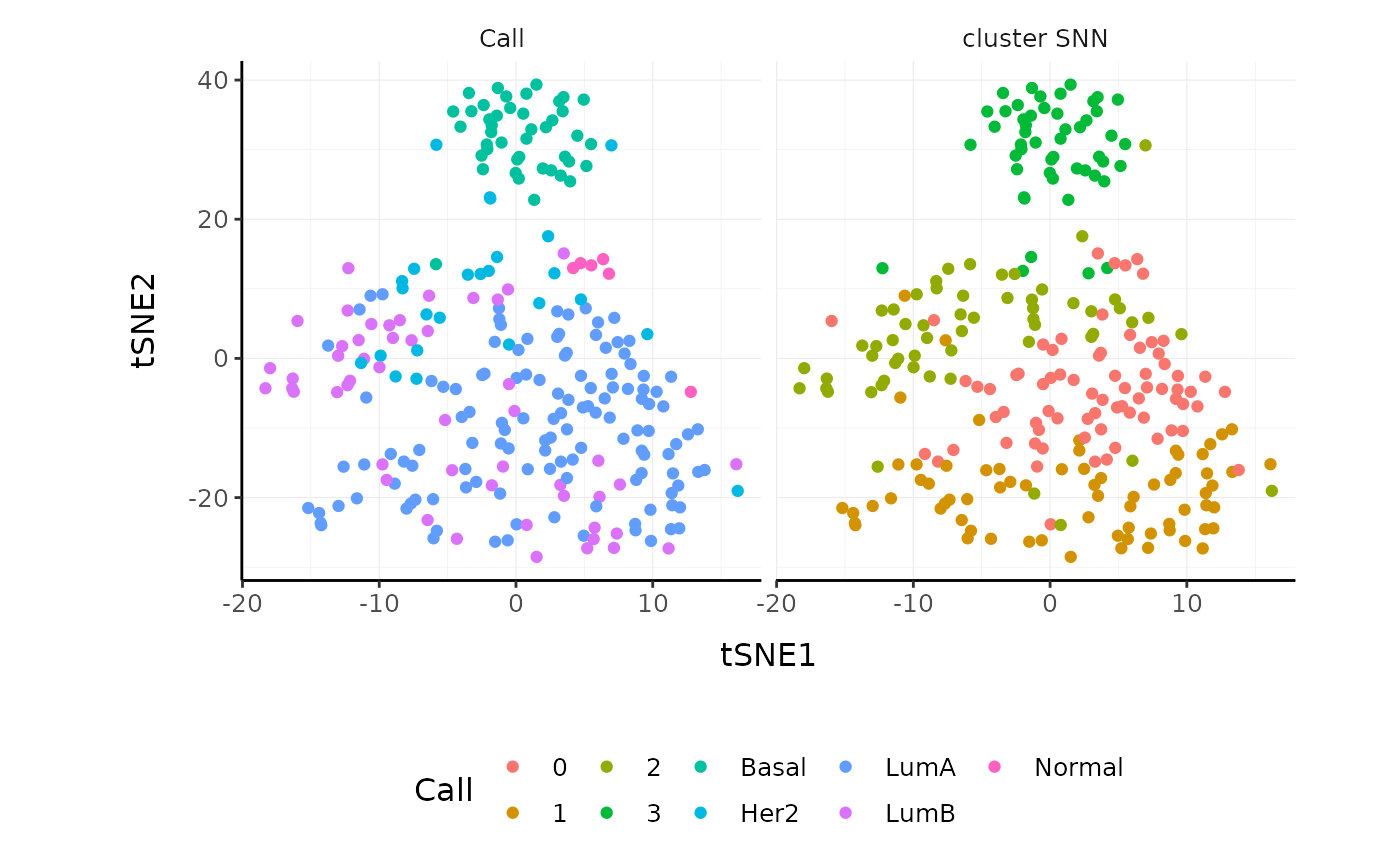
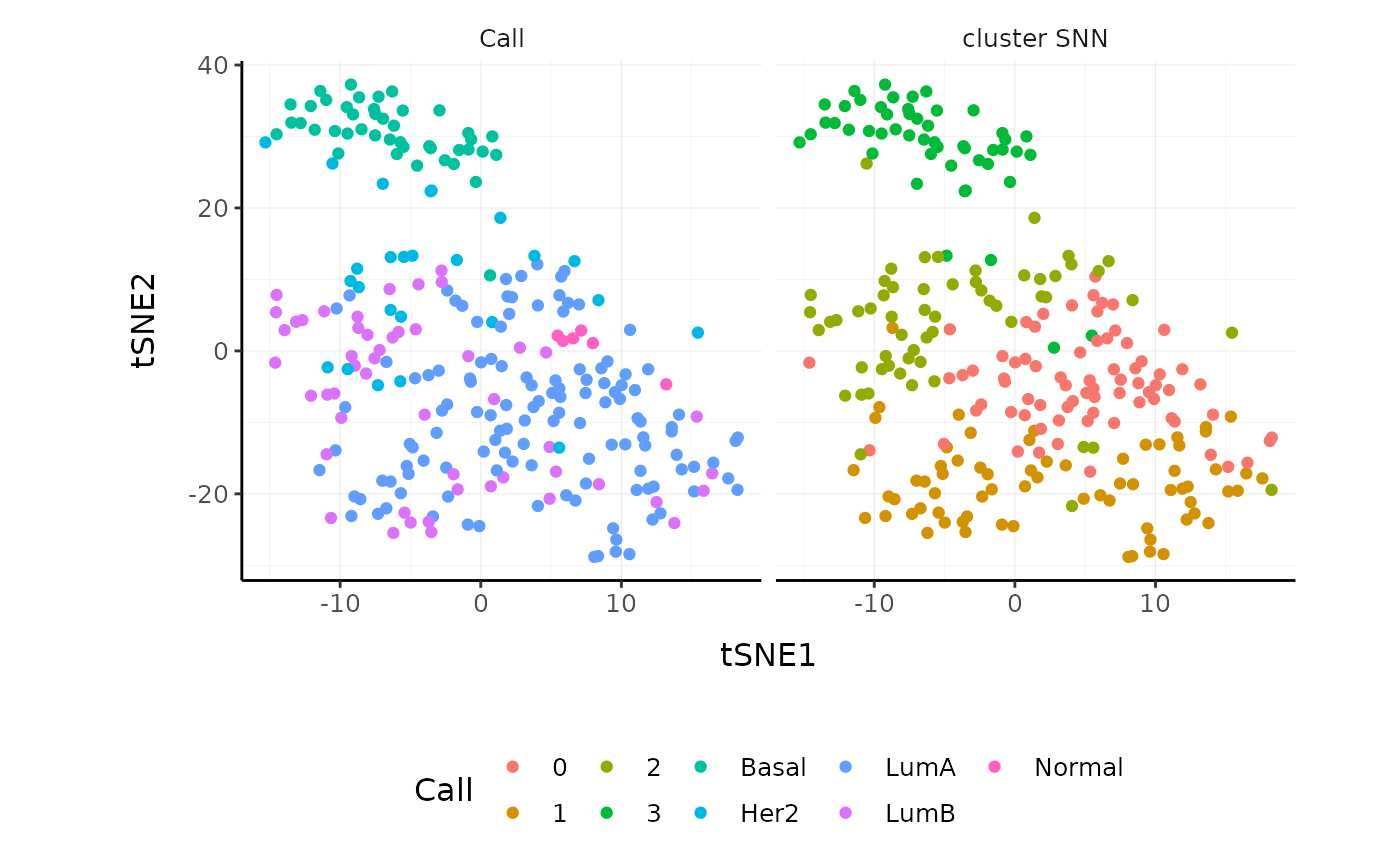
Built site for tidybulk: 1.2.0@8dc917a

diff --git a/articles/introduction.html b/articles/introduction.html
@@ -489,27 +489,27 @@
 ## Building tree...
 ## Done in 0.01 seconds (sparsity = 0.182886)!
 ## Learning embedding...
-## Iteration 50: error is 68.344129 (50 iterations in 0.04 seconds)
-## Iteration 100: error is 67.200150 (50 iterations in 0.04 seconds)
-## Iteration 150: error is 68.261986 (50 iterations in 0.04 seconds)
-## Iteration 200: error is 68.229238 (50 iterations in 0.04 seconds)
-## Iteration 250: error is 67.118718 (50 iterations in 0.05 seconds)
-## Iteration 300: error is 1.652194 (50 iterations in 0.03 seconds)
-## Iteration 350: error is 1.256134 (50 iterations in 0.03 seconds)
-## Iteration 400: error is 1.191770 (50 iterations in 0.03 seconds)
-## Iteration 450: error is 1.153739 (50 iterations in 0.03 seconds)
-## Iteration 500: error is 1.129230 (50 iterations in 0.03 seconds)
-## Iteration 550: error is 1.097668 (50 iterations in 0.03 seconds)
-## Iteration 600: error is 1.086006 (50 iterations in 0.03 seconds)
-## Iteration 650: error is 1.073834 (50 iterations in 0.03 seconds)
-## Iteration 700: error is 1.071460 (50 iterations in 0.03 seconds)
-## Iteration 750: error is 1.068581 (50 iterations in 0.03 seconds)
-## Iteration 800: error is 1.067913 (50 iterations in 0.03 seconds)
-## Iteration 850: error is 1.066808 (50 iterations in 0.03 seconds)
-## Iteration 900: error is 1.065586 (50 iterations in 0.03 seconds)
-## Iteration 950: error is 1.062724 (50 iterations in 0.03 seconds)
-## Iteration 1000: error is 1.061676 (50 iterations in 0.03 seconds)
-## Fitting performed in 0.62 seconds.</code></pre>
+## Iteration 50: error is 65.718819 (50 iterations in 0.03 seconds)
+## Iteration 100: error is 68.062617 (50 iterations in 0.03 seconds)
+## Iteration 150: error is 68.697882 (50 iterations in 0.04 seconds)
+## Iteration 200: error is 68.052288 (50 iterations in 0.04 seconds)
+## Iteration 250: error is 68.729648 (50 iterations in 0.04 seconds)
+## Iteration 300: error is 1.481141 (50 iterations in 0.03 seconds)
+## Iteration 350: error is 1.178765 (50 iterations in 0.03 seconds)
+## Iteration 400: error is 1.129179 (50 iterations in 0.03 seconds)
+## Iteration 450: error is 1.113301 (50 iterations in 0.02 seconds)
+## Iteration 500: error is 1.102419 (50 iterations in 0.03 seconds)
+## Iteration 550: error is 1.099234 (50 iterations in 0.03 seconds)
+## Iteration 600: error is 1.091994 (50 iterations in 0.02 seconds)
+## Iteration 650: error is 1.084464 (50 iterations in 0.03 seconds)
+## Iteration 700: error is 1.077908 (50 iterations in 0.03 seconds)
+## Iteration 750: error is 1.076599 (50 iterations in 0.02 seconds)
+## Iteration 800: error is 1.076276 (50 iterations in 0.02 seconds)
+## Iteration 850: error is 1.074836 (50 iterations in 0.02 seconds)
+## Iteration 900: error is 1.072923 (50 iterations in 0.02 seconds)
+## Iteration 950: error is 1.072354 (50 iterations in 0.02 seconds)
+## Iteration 1000: error is 1.071303 (50 iterations in 0.03 seconds)
+## Fitting performed in 0.55 seconds.</code></pre>
 <div class="sourceCode" id="cb24"><pre class="downlit">
 <span class="kw">tt.norm.tSNE</span> <span class="op">%&gt;%</span>
     <span class="fu"><a href="https://dplyr.tidyverse.org/reference/select.html">select</a></span>(<span class="fu"><a href="https://tidyselect.r-lib.org/reference/starts_with.html">contains</a></span>(<span class="st">"tSNE"</span>, ignore.case = <span class="fl">FALSE</span>), <span class="kw">sample</span>, <span class="kw">Call</span>) <span class="op">%&gt;%</span>
@@ -518,16 +518,16 @@
 <pre><code>## # A tibble: 251 x 4
 ##      tSNE1   tSNE2 sample                       Call 
 ##      &lt;dbl&gt;   &lt;dbl&gt; &lt;chr&gt;                        &lt;fct&gt;
-##  1   2.14  -11.8   TCGA-A1-A0SD-01A-11R-A115-07 LumA 
-##  2   6.00    5.18  TCGA-A1-A0SF-01A-11R-A144-07 LumA 
-##  3  13.3   -16.3   TCGA-A1-A0SG-01A-11R-A144-07 LumA 
-##  4  -4.40   -4.41  TCGA-A1-A0SH-01A-11R-A084-07 LumA 
-##  5  -0.110  -7.56  TCGA-A1-A0SI-01A-11R-A144-07 LumB 
-##  6 -10.6     9.01  TCGA-A1-A0SJ-01A-11R-A084-07 LumA 
-##  7  -1.33   38.9   TCGA-A1-A0SK-01A-12R-A084-07 Basal
-##  8 -13.7     1.84  TCGA-A1-A0SM-01A-11R-A084-07 LumA 
-##  9 -13.0     0.388 TCGA-A1-A0SN-01A-11R-A144-07 LumB 
-## 10   8.72  -23.8   TCGA-A1-A0SQ-01A-21R-A144-07 LumA 
+##  1   1.37  -11.2   TCGA-A1-A0SD-01A-11R-A115-07 LumA 
+##  2   1.80   10.1   TCGA-A1-A0SF-01A-11R-A144-07 LumA 
+##  3  -4.84  -13.5   TCGA-A1-A0SG-01A-11R-A144-07 LumA 
+##  4  -2.99   -2.76  TCGA-A1-A0SH-01A-11R-A084-07 LumA 
+##  5   0.947  -6.74  TCGA-A1-A0SI-01A-11R-A144-07 LumB 
+##  6  -3.14  -11.5   TCGA-A1-A0SJ-01A-11R-A084-07 LumA 
+##  7 -11.4    36.4   TCGA-A1-A0SK-01A-12R-A084-07 Basal
+##  8  -6.71   -1.54  TCGA-A1-A0SM-01A-11R-A084-07 LumA 
+##  9  -9.18   -0.722 TCGA-A1-A0SN-01A-11R-A144-07 LumB 
+## 10  -7.31  -22.8   TCGA-A1-A0SQ-01A-21R-A144-07 LumA 
 ## # … with 241 more rows</code></pre>
 <div class="sourceCode" id="cb26"><pre class="downlit">
 <span class="kw">tt.norm.tSNE</span> <span class="op">%&gt;%</span>
@@ -554,29 +554,29 @@
 ## Using no_dims = 2, perplexity = 10.000000, and theta = 0.500000
 ## Computing input similarities...
 ## Building tree...
-## Done in 0.02 seconds (sparsity = 0.182886)!
+## Done in 0.01 seconds (sparsity = 0.182886)!
 ## Learning embedding...
-## Iteration 50: error is 69.038265 (50 iterations in 0.03 seconds)
-## Iteration 100: error is 68.772425 (50 iterations in 0.04 seconds)
-## Iteration 150: error is 69.770247 (50 iterations in 0.04 seconds)
-## Iteration 200: error is 68.840961 (50 iterations in 0.05 seconds)
-## Iteration 250: error is 69.818203 (50 iterations in 0.05 seconds)
-## Iteration 300: error is 1.467643 (50 iterations in 0.05 seconds)
-## Iteration 350: error is 1.266194 (50 iterations in 0.03 seconds)
-## Iteration 400: error is 1.211630 (50 iterations in 0.03 seconds)
-## Iteration 450: error is 1.198361 (50 iterations in 0.03 seconds)
-## Iteration 500: error is 1.174514 (50 iterations in 0.03 seconds)
-## Iteration 550: error is 1.134731 (50 iterations in 0.03 seconds)
-## Iteration 600: error is 1.111402 (50 iterations in 0.03 seconds)
-## Iteration 650: error is 1.105131 (50 iterations in 0.03 seconds)
-## Iteration 700: error is 1.102994 (50 iterations in 0.03 seconds)
-## Iteration 750: error is 1.097749 (50 iterations in 0.03 seconds)
-## Iteration 800: error is 1.092631 (50 iterations in 0.03 seconds)
-## Iteration 850: error is 1.094552 (50 iterations in 0.03 seconds)
-## Iteration 900: error is 1.093224 (50 iterations in 0.03 seconds)
-## Iteration 950: error is 1.091653 (50 iterations in 0.03 seconds)
-## Iteration 1000: error is 1.091177 (50 iterations in 0.03 seconds)
-## Fitting performed in 0.63 seconds.</code></pre>
+## Iteration 50: error is 67.215392 (50 iterations in 0.03 seconds)
+## Iteration 100: error is 69.361968 (50 iterations in 0.04 seconds)
+## Iteration 150: error is 69.838365 (50 iterations in 0.03 seconds)
+## Iteration 200: error is 68.078014 (50 iterations in 0.03 seconds)
+## Iteration 250: error is 68.488206 (50 iterations in 0.03 seconds)
+## Iteration 300: error is 1.553507 (50 iterations in 0.03 seconds)
+## Iteration 350: error is 1.221977 (50 iterations in 0.03 seconds)
+## Iteration 400: error is 1.185869 (50 iterations in 0.02 seconds)
+## Iteration 450: error is 1.144855 (50 iterations in 0.02 seconds)
+## Iteration 500: error is 1.129491 (50 iterations in 0.03 seconds)
+## Iteration 550: error is 1.124083 (50 iterations in 0.03 seconds)
+## Iteration 600: error is 1.121508 (50 iterations in 0.02 seconds)
+## Iteration 650: error is 1.119243 (50 iterations in 0.02 seconds)
+## Iteration 700: error is 1.115316 (50 iterations in 0.02 seconds)
+## Iteration 750: error is 1.114528 (50 iterations in 0.02 seconds)
+## Iteration 800: error is 1.114040 (50 iterations in 0.02 seconds)
+## Iteration 850: error is 1.111450 (50 iterations in 0.02 seconds)
+## Iteration 900: error is 1.111170 (50 iterations in 0.02 seconds)
+## Iteration 950: error is 1.110578 (50 iterations in 0.02 seconds)
+## Iteration 1000: error is 1.109980 (50 iterations in 0.03 seconds)
+## Fitting performed in 0.53 seconds.</code></pre>
 <div class="sourceCode" id="cb29"><pre class="downlit">
 <span class="kw">se.norm.tSNE</span>
 </pre></div>
@@ -690,7 +690,7 @@
 ##    &lt;chr&gt;      &lt;chr&gt;                      &lt;int&gt;
 ##  1 ABCB4      SRR1740034                  1706
 ##  2 ABCB9      SRR1740034                    71
-##  3 ACAP1      SRR1740034                  8677
+##  3 ACAP1      SRR1740034                  8678
 ##  4 ACP5       SRR1740034                  2362
 ##  5 ADAM28     SRR1740034                  7696
 ##  6 ADAMDEC1   SRR1740034                    42
@@ -849,16 +849,16 @@
 <pre><code>## # A tibble: 251 x 5
 ##    sample                       Call    tSNE1   tSNE2 `cluster SNN`
 ##    &lt;chr&gt;                        &lt;fct&gt;   &lt;dbl&gt;   &lt;dbl&gt; &lt;fct&gt;        
-##  1 TCGA-A1-A0SD-01A-11R-A115-07 LumA    2.14  -11.8   1            
-##  2 TCGA-A1-A0SF-01A-11R-A144-07 LumA    6.00    5.18  2            
-##  3 TCGA-A1-A0SG-01A-11R-A144-07 LumA   13.3   -16.3   1            
-##  4 TCGA-A1-A0SH-01A-11R-A084-07 LumA   -4.40   -4.41  0            
-##  5 TCGA-A1-A0SI-01A-11R-A144-07 LumB   -0.110  -7.56  0            
-##  6 TCGA-A1-A0SJ-01A-11R-A084-07 LumA  -10.6     9.01  1            
-##  7 TCGA-A1-A0SK-01A-12R-A084-07 Basal  -1.33   38.9   3            
-##  8 TCGA-A1-A0SM-01A-11R-A084-07 LumA  -13.7     1.84  2            
-##  9 TCGA-A1-A0SN-01A-11R-A144-07 LumB  -13.0     0.388 2            
-## 10 TCGA-A1-A0SQ-01A-21R-A144-07 LumA    8.72  -23.8   1            
+##  1 TCGA-A1-A0SD-01A-11R-A115-07 LumA    1.37  -11.2   1            
+##  2 TCGA-A1-A0SF-01A-11R-A144-07 LumA    1.80   10.1   2            
+##  3 TCGA-A1-A0SG-01A-11R-A144-07 LumA   -4.84  -13.5   1            
+##  4 TCGA-A1-A0SH-01A-11R-A084-07 LumA   -2.99   -2.76  0            
+##  5 TCGA-A1-A0SI-01A-11R-A144-07 LumB    0.947  -6.74  0            
+##  6 TCGA-A1-A0SJ-01A-11R-A084-07 LumA   -3.14  -11.5   1            
+##  7 TCGA-A1-A0SK-01A-12R-A084-07 Basal -11.4    36.4   3            
+##  8 TCGA-A1-A0SM-01A-11R-A084-07 LumA   -6.71   -1.54  2            
+##  9 TCGA-A1-A0SN-01A-11R-A144-07 LumB   -9.18   -0.722 2            
+## 10 TCGA-A1-A0SQ-01A-21R-A144-07 LumA   -7.31  -22.8   1            
 ## # … with 241 more rows</code></pre>
 <div class="sourceCode" id="cb58"><pre class="downlit">
 <span class="kw">tt.norm.SNN</span> <span class="op">%&gt;%</span>
